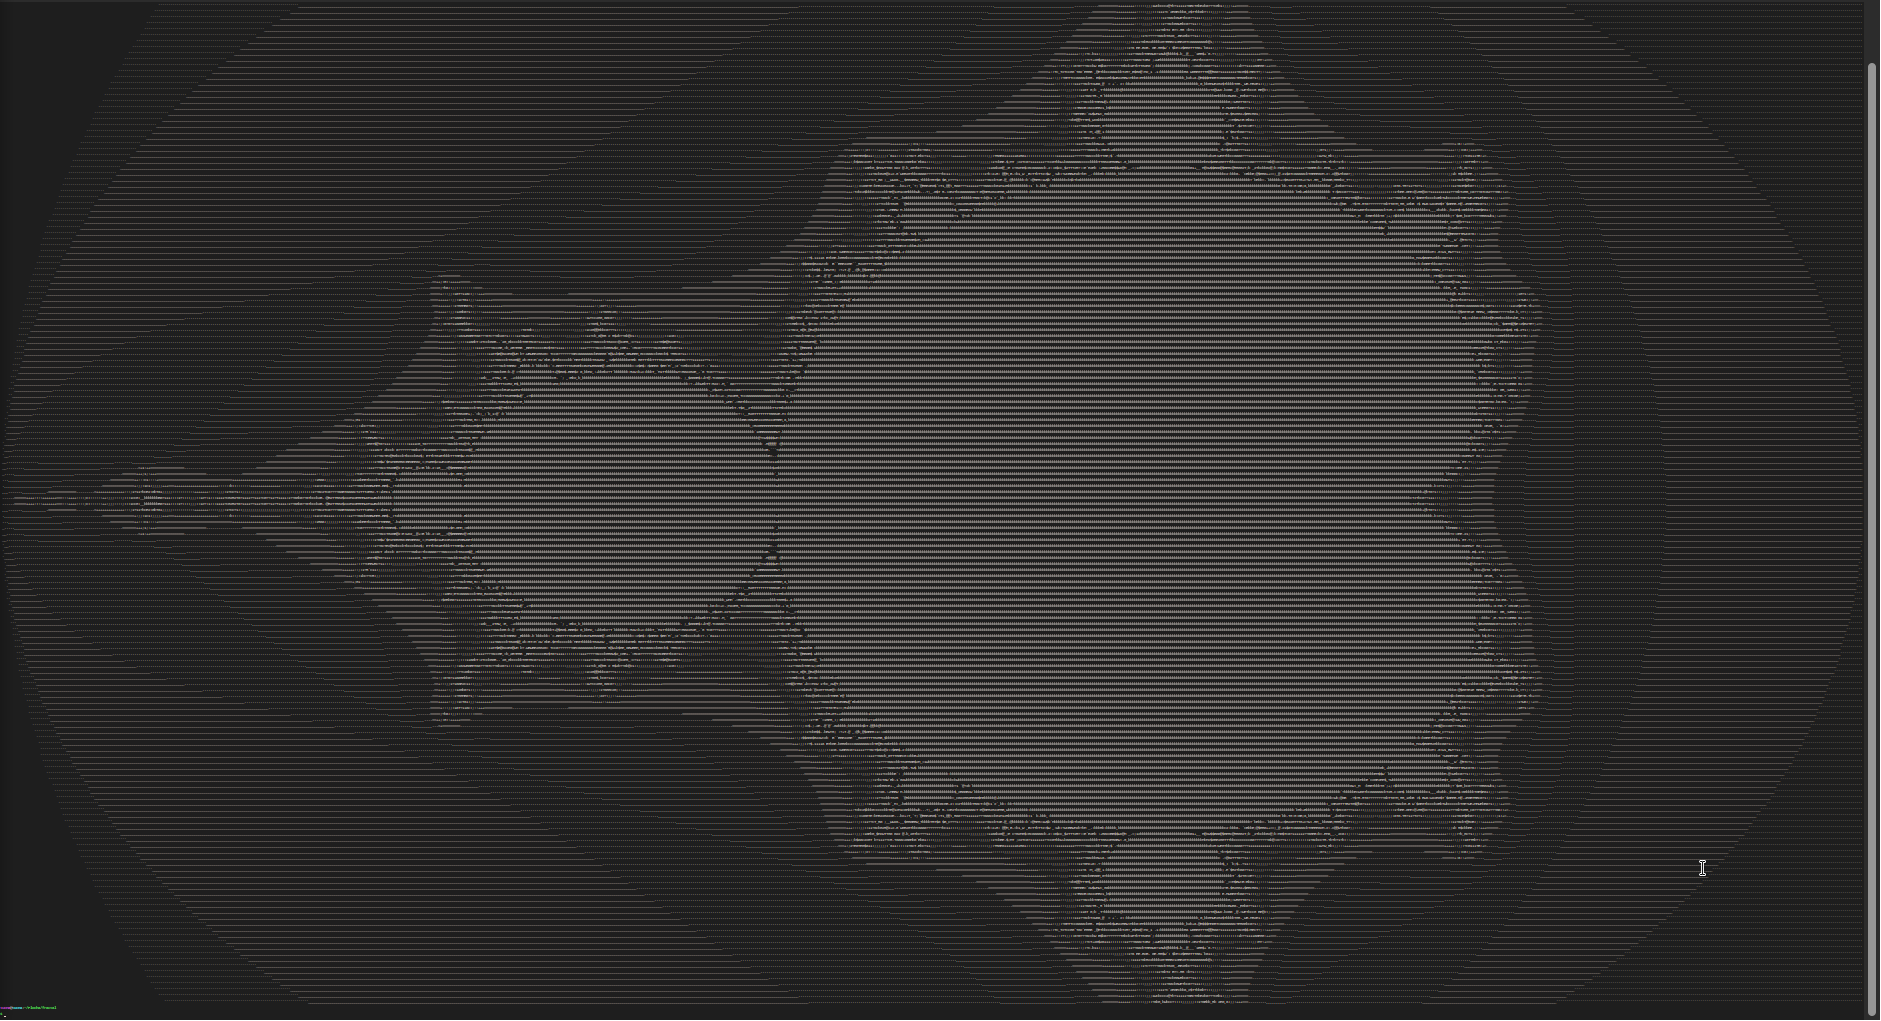
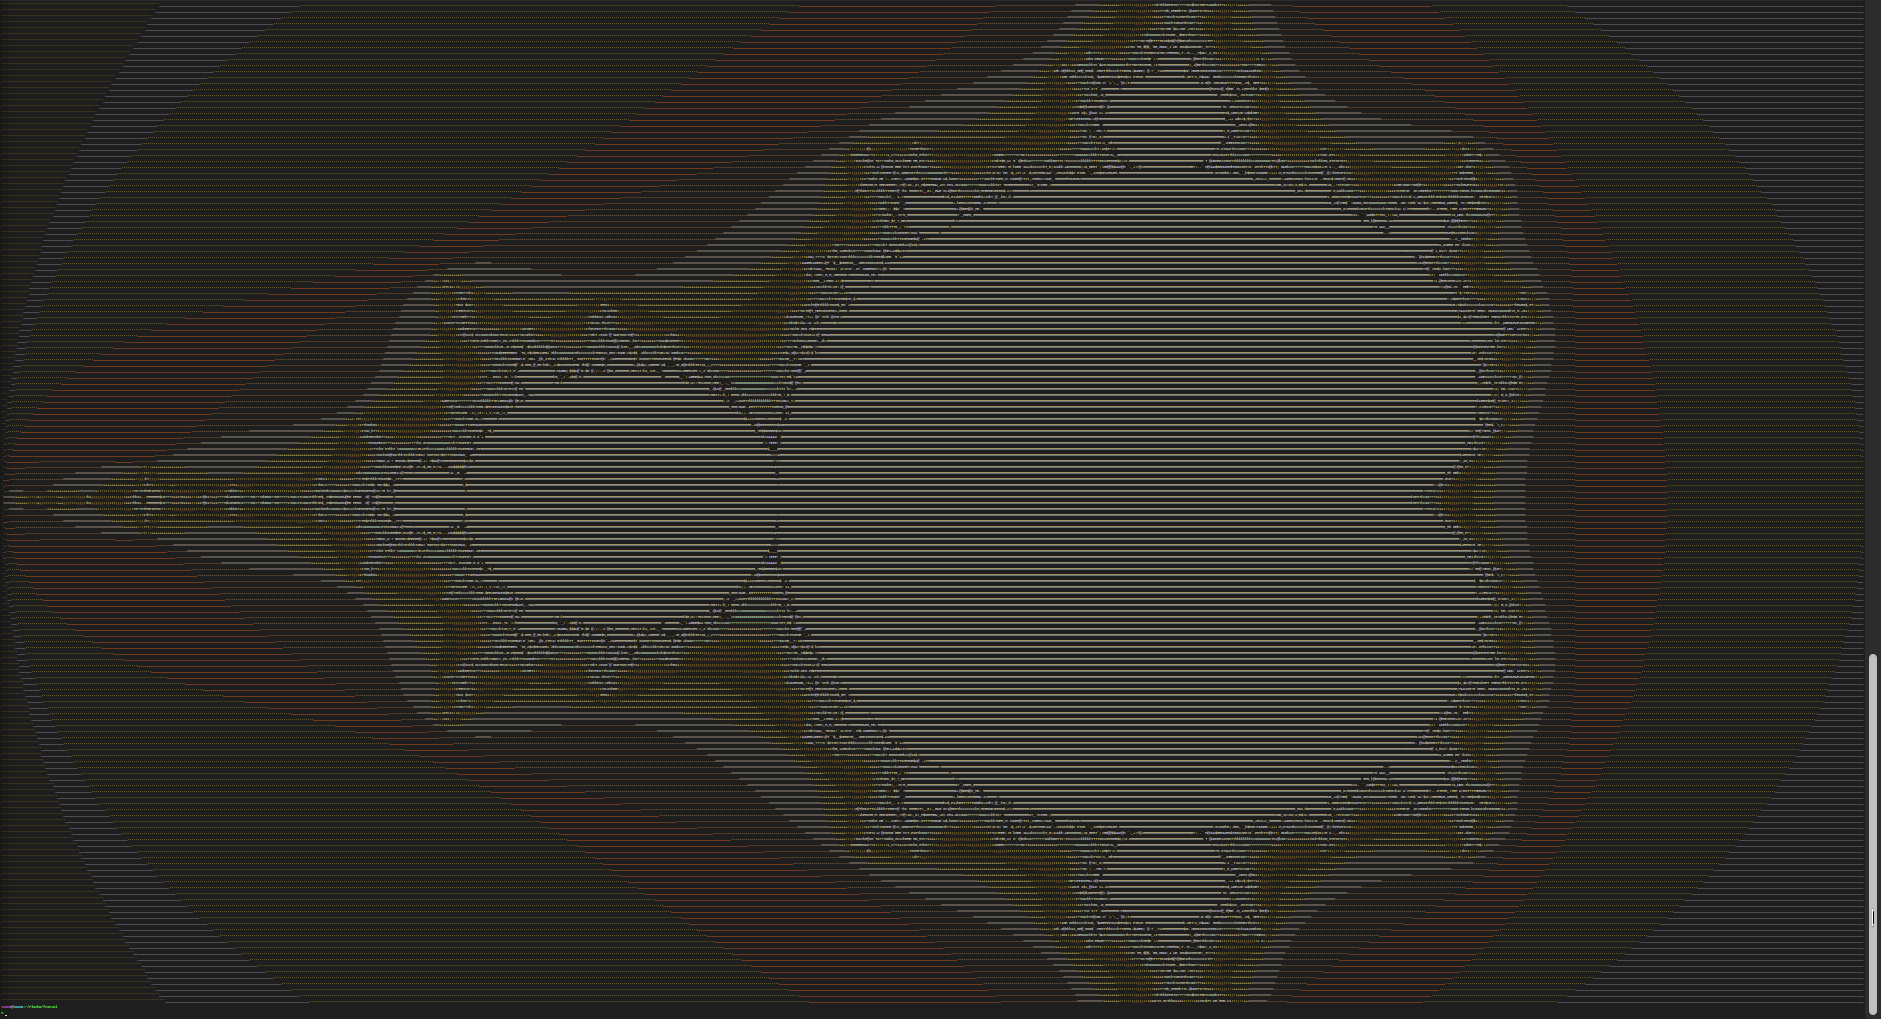
colored mandelbrot

diff --git a/src/Mandelbrot/mandelbrot_set.h b/src/Mandelbrot/mandelbrot_set.h
@@ -1,31 +1,36 @@
 #include <stdio.h>
-#include <stdlib.h>
 #include <string.h>
 #include <sys/ioctl.h>
 #include <complex.h>
+#include <stdbool.h>
+#include "hsv_to_rgb.h"
 
-
-// Defining the size of the screen.
-//#define ASCII " .'`^\",:;Il!i><~+_-?][}{1)(|\\/tfjrxnuvczXYUJCLQ0OZmwqpdbkhao*#MW&8%B@$"
 //#define ASCII2 "$@B%8&WM#*oahkbdpqwmZO0QLCJUYXzcvunxrjft/\\|()1{}[]?-_+~<>i!lI;:,\"^`'. "
+//#define ASCII " .'`^\",:;Il!i><~+_-?][}{1)(|\\/tfjrxnuvczXYUJCLQ0OZmwqpdbkhao*#MW&8%B@$"
 
-#define ASCII "M@#W$BG5E20Tbca?1!;:+=-,._` "
-#define ASCII2 " `_.,-=+:;!1?acbT02E5GB$W#@M"
+#define ASCII2 "M@#W$BG5E20Tbca?1!;:+=-,._` "
+#define ASCII " `_.,-=+:;!1?acbT02E5GB$W#@M"
 
-#define LIMIT 240
+#define ANSI_f_start "\x1b[38;2;"
+#define ANSI_end "\x1b[0m"
+
+#define LIMIT 250
 #define START -2.0
 #define START2 -1.0
 #define END 1.0
 
 int width, height;
 
-void callMandelbrot();
-void getResolution();
 double complex Cpow(double complex z);
 double complex Cadd(double complex z, double complex c);
+void getResolution();
+int calculateMandel(double complex c);
+void callMandelbrot();
+int printMandelbrot(bool clr);
 
+bool color = false;
 
-// powing complex numbers
+// powering complex numbers
 double complex Cpow(double complex z) {
     double real, imag;
     double a = creal(z), b=cimag(z);
@@ -79,6 +84,8 @@ int calculateMandel(double complex c) {
     return n;
 }
 
+
+// calculating and printing mandelbrot
 void callMandelbrot() {
     getResolution();
 
@@ -95,16 +102,33 @@ void callMandelbrot() {
             int m = calculateMandel(c);
 
             if (m > LIMIT) { printf(" "); } 
-            else { printf("%c", ASCII2[(m - 1) % strlen(ASCII2)]); }
-            
+            else { 
+                int H, S, V, r, g, b;
+
+                H = (255 * m) / LIMIT;
+                S = 100;
+                if (m < LIMIT) { V = 100; }
+                else { V = 0; }
+
+                r = hsv_to_rgb(H, S, V, 0);
+                g = hsv_to_rgb(H, S, V, 1);
+                b = hsv_to_rgb(H, S, V, 2);
+
+                if (color) {
+                    printf("%s%d;%d;%dm%c%s", ANSI_f_start, r, g, b, ASCII2[(m) % strlen(ASCII2)], ANSI_end);
+                } else {
+                    printf("%c", ASCII[(m) % strlen(ASCII)]);
+                }
+            }
         } 
         printf("\r\n");
     }
 }
 
 
-// main - is called by fractal.c function
-int printMandelbrot() {
+// main function - is called by fractal.c function
+int printMandelbrot(bool clr) {
+    color = clr;
     callMandelbrot();
     return 0;
 }

diff --git a/src/Mandelbrot/hsv_to_rgb.h b/src/Mandelbrot/hsv_to_rgb.h
@@ -1,0 +1,23 @@
+#include <stdio.h>
+#include <math.h>
+
+int hsv_to_rgb(int H, int S, int V, int which) {
+    double r, g, b;
+    double s = (double)S/100;
+    double v = (double)V/100;
+
+    double C = s*v;
+    double X = C*(1 - fabs(fmod((double)H/60.0, 2) - 1));
+    double m = v - C;
+
+    if (H >= 0 && H < 60) { r = C, g = X, b = 0; }
+    else if(H >= 60 && H < 120) { r = X, g = C, b = 0; }
+    else if(H >= 120 && H < 180) { r = 0, g = C, b = X; }
+    else if(H >= 180 && H < 240) { r = 0, g = X, b = C; }
+    else if(H >= 240 && H < 300) { r = X, g = 0, b = C; }
+    else { r = C, g = 0, b = X; }
+
+    if (which == 0) { return (r+m)*255; }
+    else if (which == 1) { return (g+m)*255; }
+    else { return (b+m)*255; }
+}

diff --git a/src/fractal.c b/src/fractal.c
@@ -1,4 +1,5 @@
 #include <stdio.h>
+#include <stdbool.h>
 #include "Sierpinsky/sierpinsky_carpet.h"
 #include "Mandelbrot/mandelbrot_set.h"
 
@@ -11,13 +12,16 @@ int main() {
 
     if (option == 1) { 
         // Sierpiński carpet
-        //
         printf("\nEnter n: ");
         scanf("%d", &n);
+        
         printSquare(n, 0, 0, nCount(n));
+
     } else if (option == 2) {
         // Mandelbrot set
-        printMandelbrot();
+        
+        // bool color = true/ false;
+        printMandelbrot(true);
     }
 
     return 0;

diff --git a/src/Mandelbrot/README.md b/src/Mandelbrot/README.md
@@ -1,8 +1,19 @@
 Mandelbrot set
 ====
 
+## Examples
 
-### A little bit of theory 
+*Resolution 169 x 931; min zoom*
+
+| Normal mode | Color mode | Color mode inverse |
+| --- | --- | --- |
+| ![normal_ascii](mandelbrot_ascii.png) | ![color_ascii](mandelbrot_ascii_color.png) | ![color_inverse_ascii](mandelbrot_ascii_color_inverse.png) |
+
+
+Text example also avaiable [here](mandelbrot_ascii.txt).
+
+
+## A little bit of theory 
 
 The equation for Mandelbrot set is:  $f_{c}(z)=z^{2}+c$
 
@@ -29,7 +40,7 @@ Which is, as we can see, another complex number with real part $a^2 - b^2$ and i
 This process'll continue to the endless, so we have to set limitation → you can set whatever you want, I set **250** becouse its useless to use more iterations than that. `#define LIMIT 250`
 
 
-### Programming integration
+## Programming integration
 
 Now we have to integrate all that simple math into code.
 
@@ -66,7 +77,7 @@ void callMandelbrot() {
 ```
 
 The basics are done, now we have to integrate the complex numbers.
-First, we have to set (define) `LIMIT` of iterations, `START` position for $\R$ numbers, `START2` position for $\mathbb{C}$ numbers and `END` position:
+First, we have to set (define) `LIMIT` of iterations, `START` position for $\mathbb{R}$ numbers, `START2` position for $\mathbb{C}$ numbers and `END` position:
 
 ```c
 #define LIMIT 250
@@ -135,11 +146,3 @@ The best is, to use characters sorted by brightness and then print them by $m$ v
             }
 
 ```
-
-## Examples
-
-![terminal](mandelbrot_ascii.png)
-*Resolution 169 x 931*
-
-Text example also avaiable [here](mandelbrot_ascii.txt).
-
